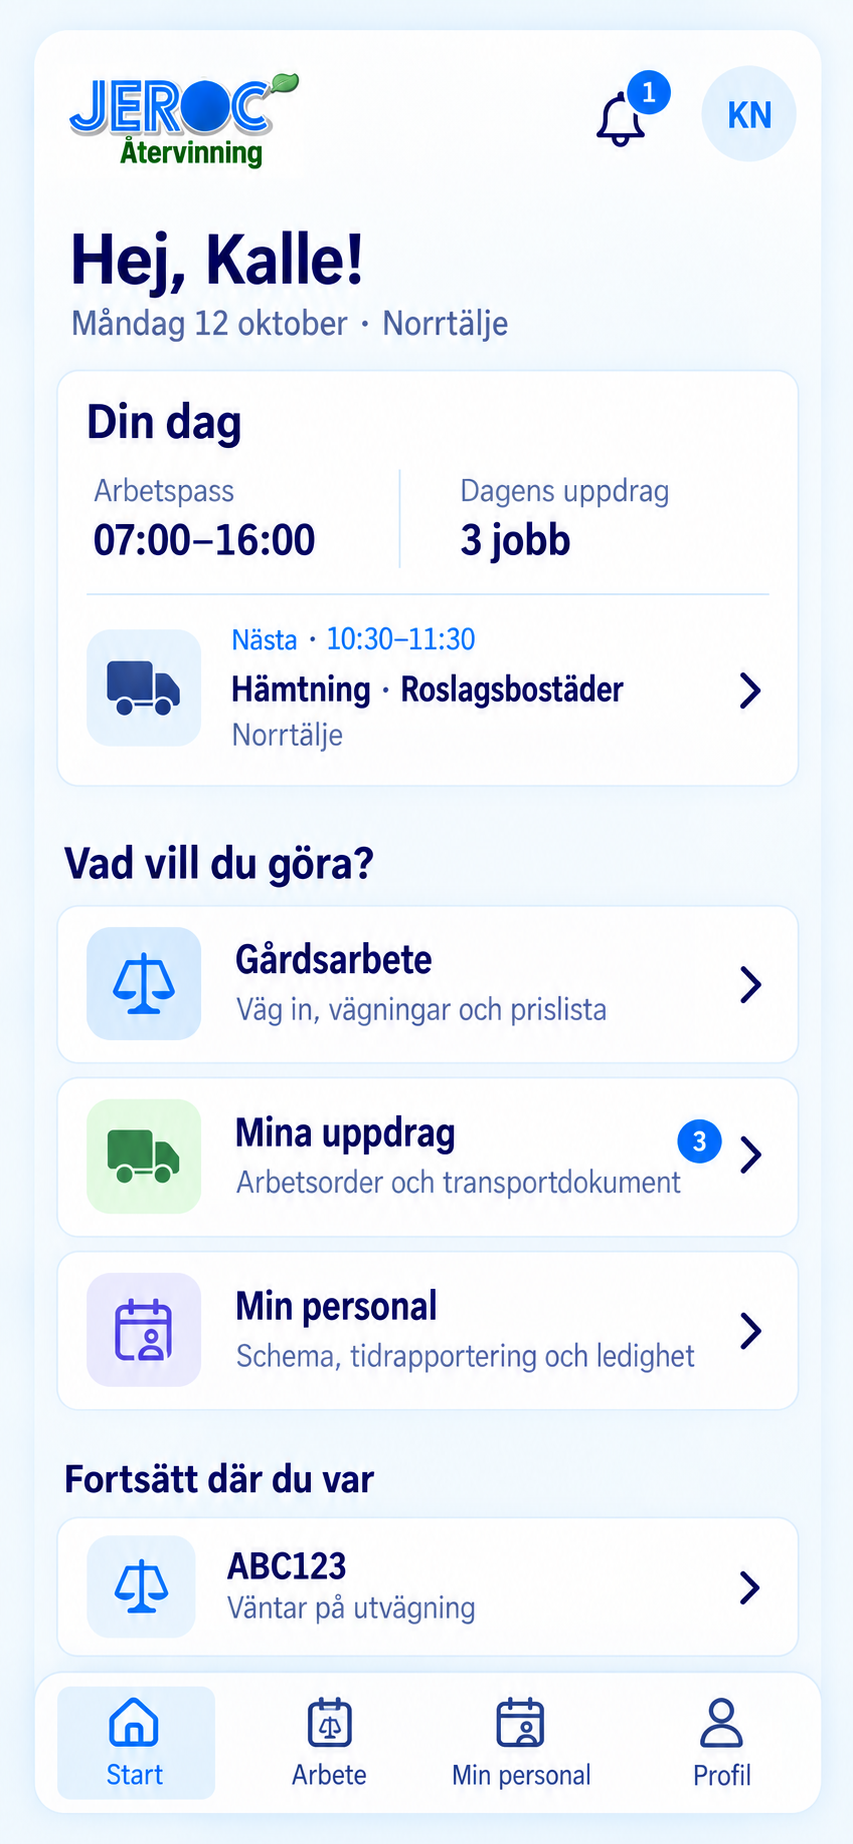
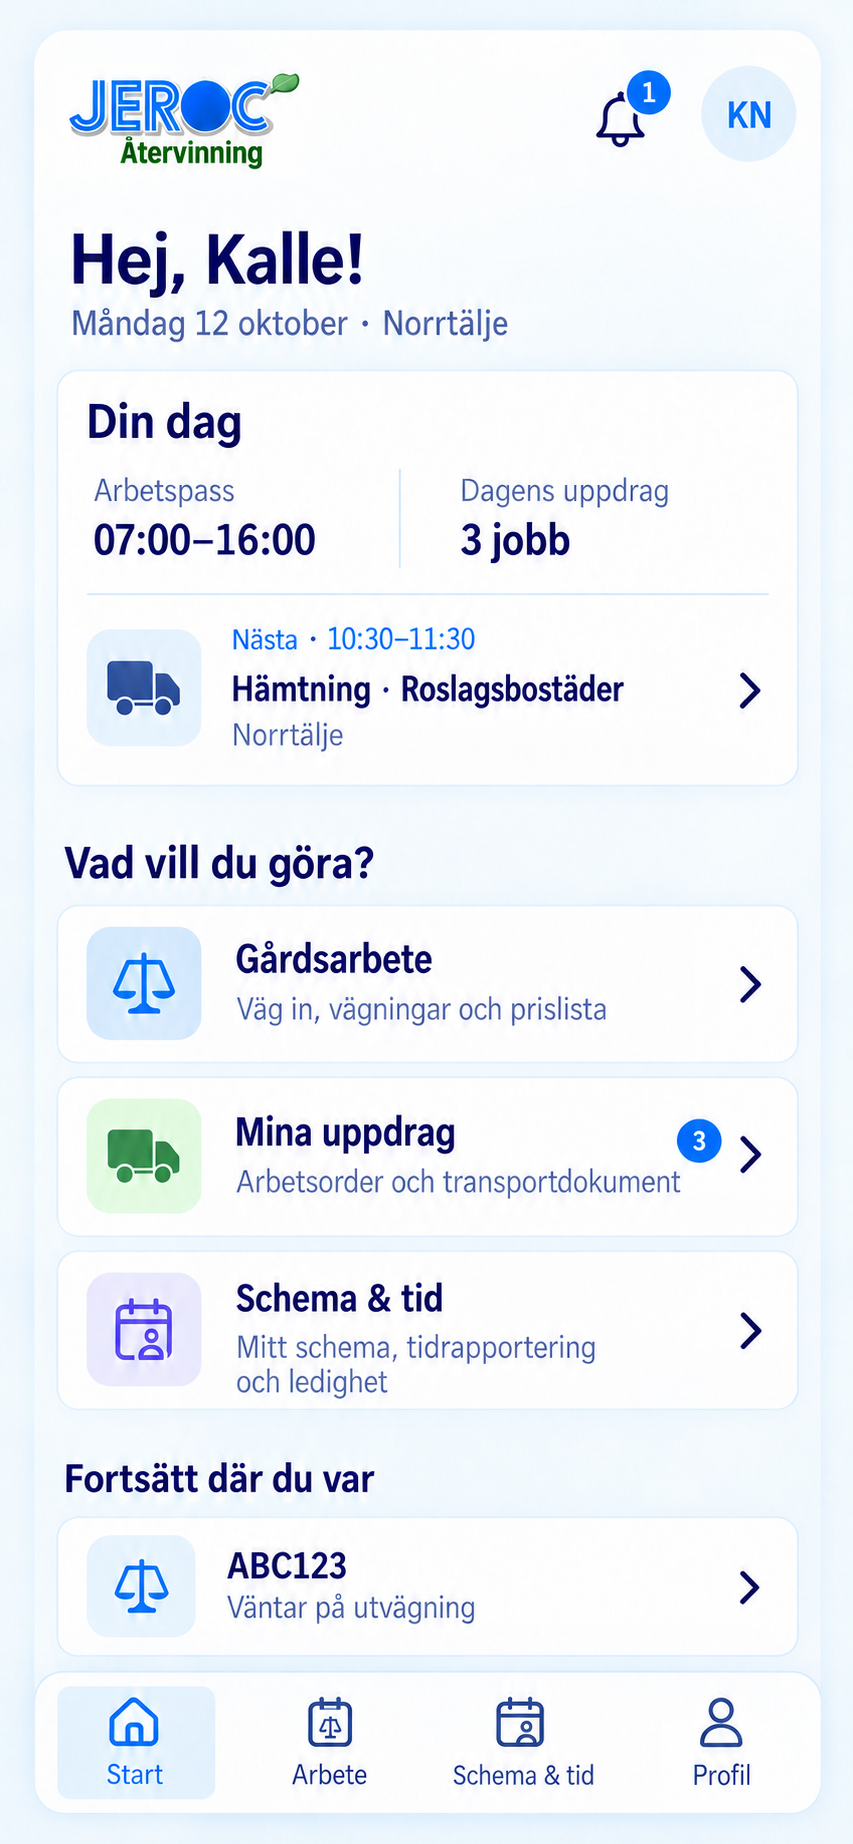
docs: rename employee self-service to Schema & tid

diff --git a/docs/mockups/personal-mobil/README.md b/docs/mockups/personal-mobil/README.md
@@ -1,4 +1,4 @@
-# Min personal – mobil självservice och chefens granskning
+# Schema & tid – mobil självservice och chefens granskning
 
 ## Nytt designförslag: gemensam startsida
 
@@ -7,12 +7,14 @@
 ![Gemensam startsida efter inloggning](14_Gemensam_Startsida.png)
 
 Startsidan samlar dagens arbetspass och nästa uppdrag samt tre ingångar:
-**Gårdsarbete**, **Mina uppdrag** och **Min personal**. Samma upplägg föreslås
+**Gårdsarbete**, **Mina uppdrag** och **Schema & tid**. Samma upplägg föreslås
 för alla, med funktioner utifrån behörighet. Pågående vägningar kan återupptas
-längst ner. Huvudmenyn har **Start**, **Arbete**, **Min personal** och **Profil**.
+längst ner. Huvudmenyn har **Start**, **Arbete**, **Schema & tid** och **Profil**.
+Namnet **Schema & tid** är valt för medarbetarens egna uppgifter. Chefens
+personaladministration heter fortsatt **Personal**.
 
 Detta är en ny statisk bild. Den klickbara prototypen och ZIP-filen nedan
-visar fortfarande det tidigare navigationsförslaget; den riktiga appen är
+visar fortfarande det tidigare navigationsförslaget med namnet Min personal; den riktiga appen är
 inte ändrad av denna mockup.
 
 ## Klickbar prototyp
